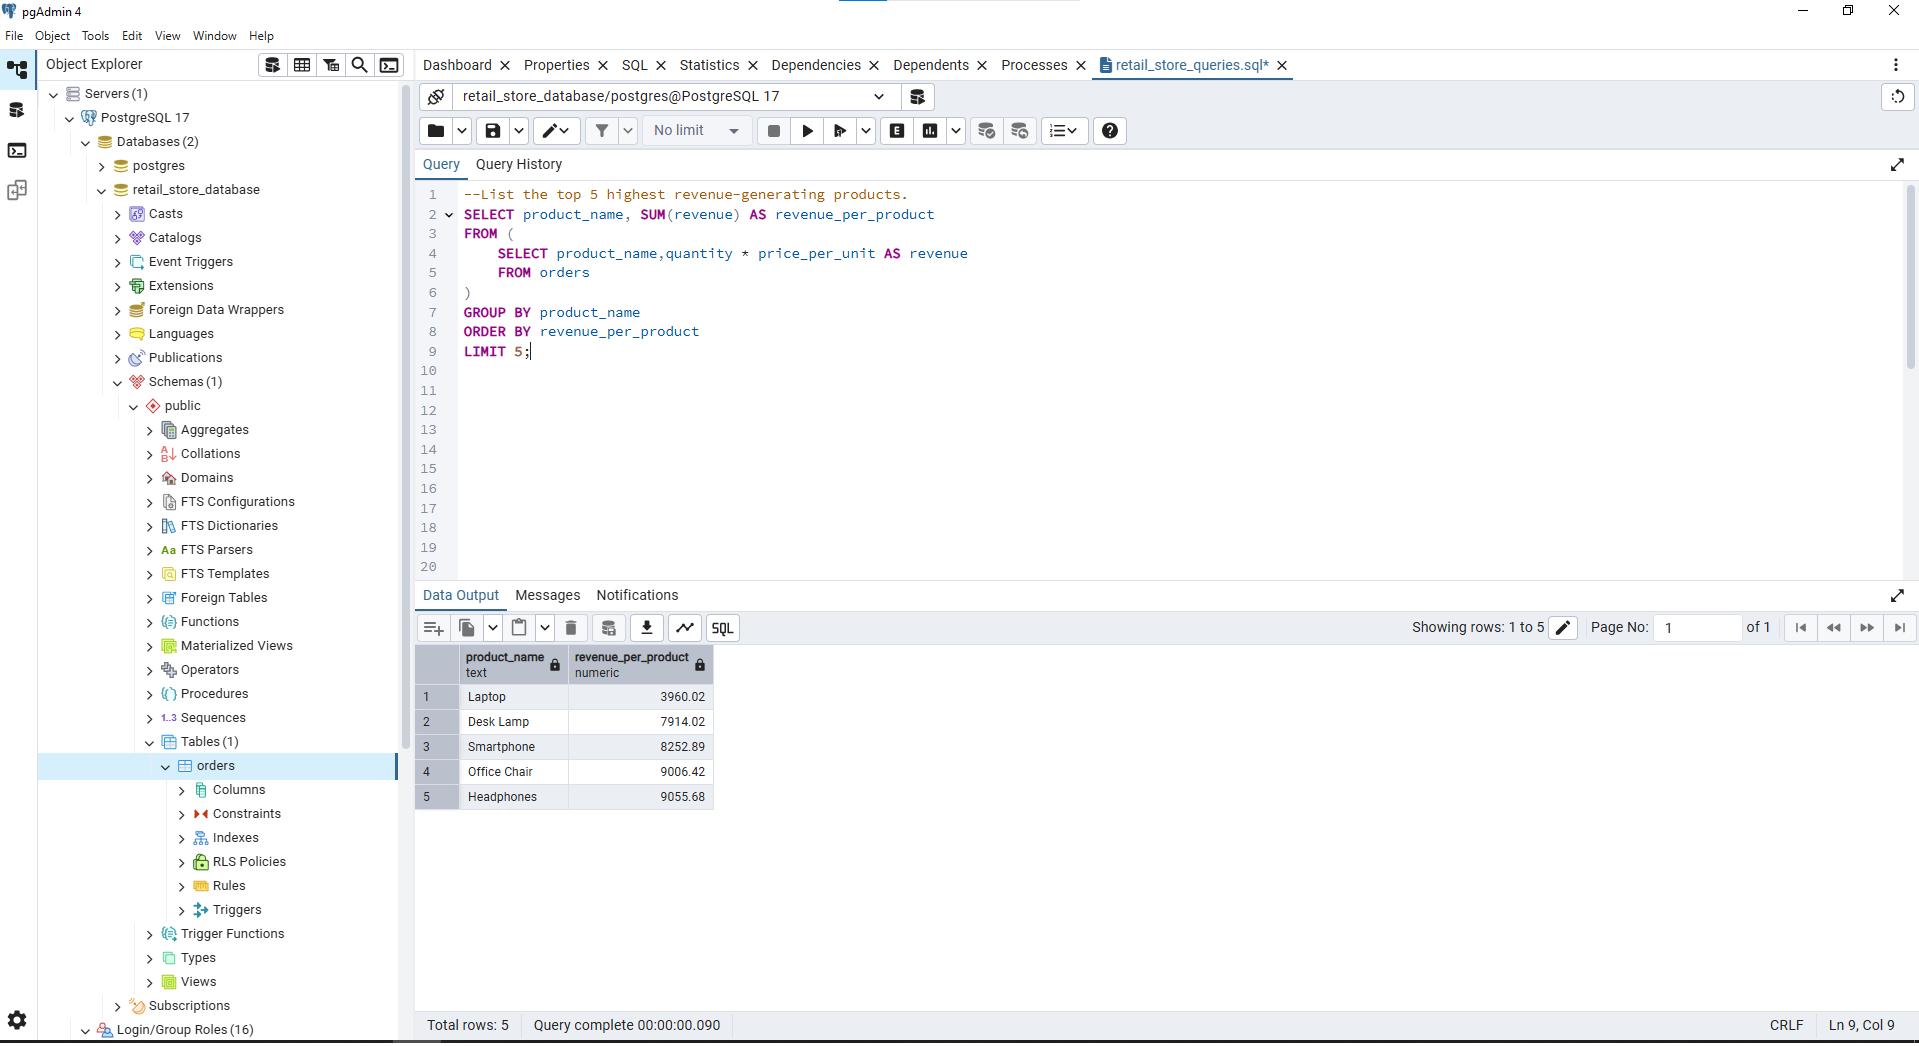
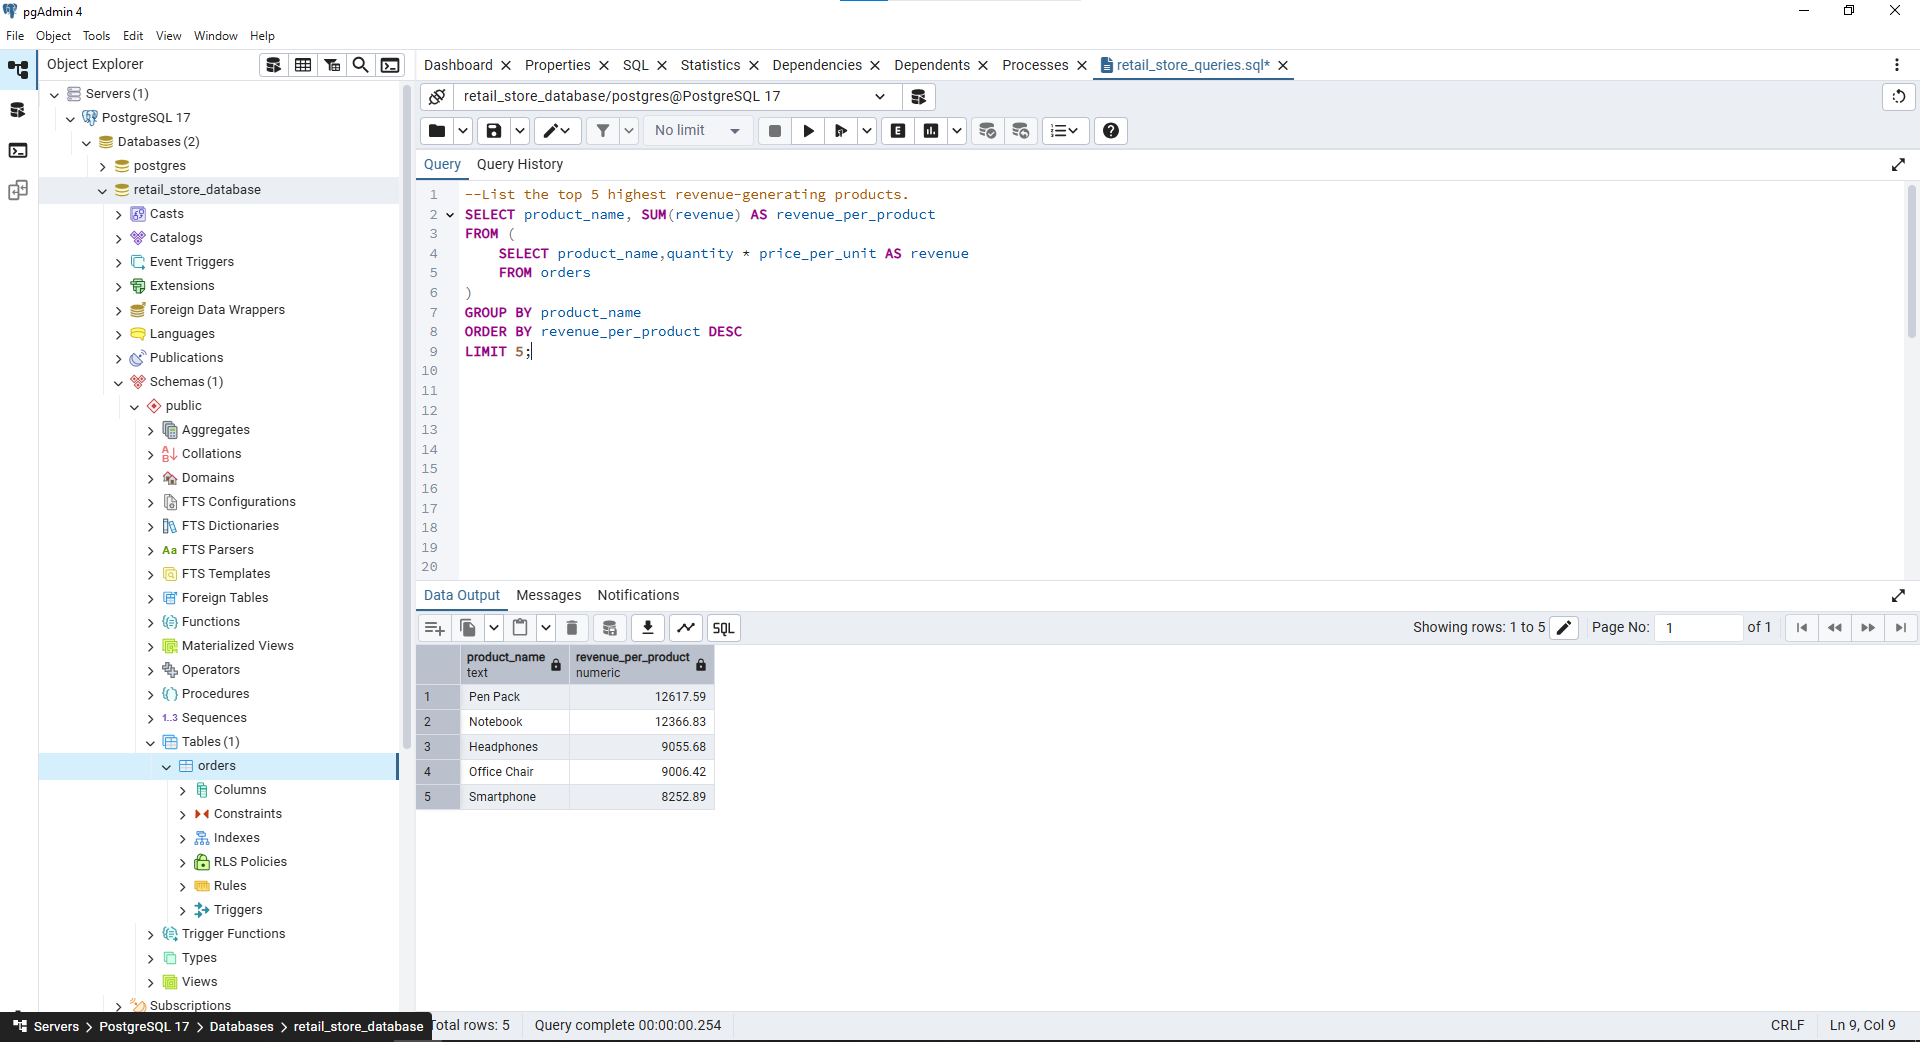
Update README.md, images and retail_store_queries.sql

diff --git a/README.md b/README.md
@@ -243,7 +243,7 @@ FROM (
 	FROM orders
 )
 GROUP BY product_name
-ORDER BY revenue_per_product
+ORDER BY revenue_per_product DESC
 LIMIT 5;
 ```
 
@@ -325,15 +325,15 @@ After executing queries on the **retail_store_database**, the following results 
 	- **North** Region: **$18,641.08**
 	- **East** Region: **$14,418.67**
 - The top 5 highest	revenue-generating products are as follows:
-	- **Headphones**: **$9,055.68**
-	- **Office Chair**: **$9,006.42**
-	- **Smartphone**: **$8,252.89**
-	- **Desk Lamp**: **$7,914.02**
-	- **Laptop**: **$3690.02**
+	- **Pen Pack**: **$12,617.59**
+	- **"Notebook"**: **$12,366.83**
+	- **"Headphones"**: **$9,055.68**
+	- **"Office Chair"*: **$9,006.42**
+	- **"Smartphone"**: **$8,252.89**
 - The average order quantity per product category are as follows:
-	- **Furniture**: **2.89**
-	- **Electronics**: **3.10**
-	- **Stationery**: **2.70**
+	- **Furniture**: **2.89** orders
+	- **Electronics**: **3.10** orders
+	- **Stationery**: **2.70** orders
 - There were **24** unique placed orders made by customers on the retail store.
 - The **Southern** region made the highest average order revenue, with the amount of **$1,343.25**.
 	
